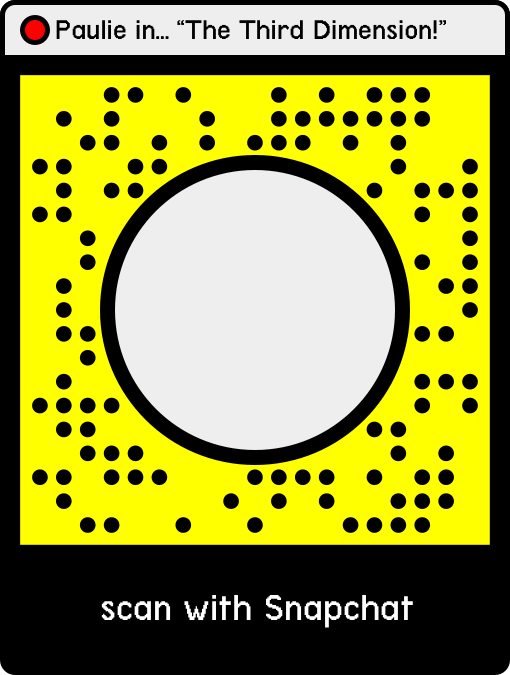
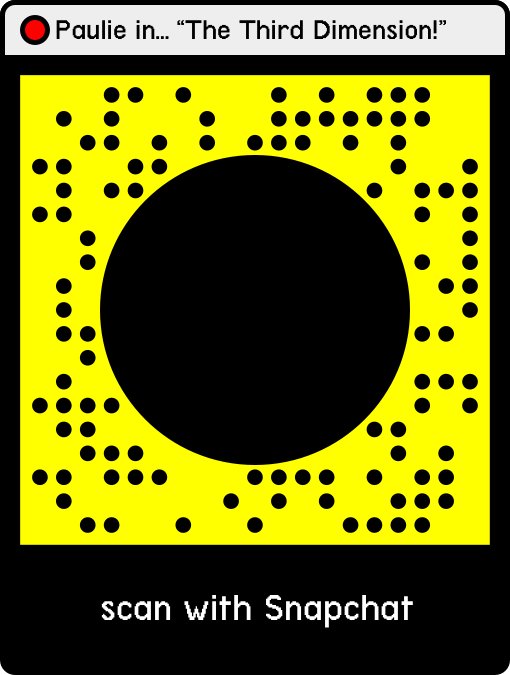
fresh

Changed region(s): [[0.2059, 0.2489, 0.7941, 0.6844]]

diff --git a/nft/js/story.js b/nft/js/story.js
@@ -1,14 +1,15 @@
+window.mobileAndTabletCheck = function () {
+	let check = false;
+	(function (a) { if (/(android|bb\d+|meego).+mobile|avantgo|bada\/|blackberry|blazer|compal|elaine|fennec|hiptop|iemobile|ip(hone|od)|iris|kindle|lge |maemo|midp|mmp|mobile.+firefox|netfront|opera m(ob|in)i|palm( os)?|phone|p(ixi|re)\/|plucker|pocket|psp|series(4|6)0|symbian|treo|up\.(browser|link)|vodafone|wap|windows ce|xda|xiino|android|ipad|playbook|silk/i.test(a) || /1207|6310|6590|3gso|4thp|50[1-6]i|770s|802s|a wa|abac|ac(er|oo|s\-)|ai(ko|rn)|al(av|ca|co)|amoi|an(ex|ny|yw)|aptu|ar(ch|go)|as(te|us)|attw|au(di|\-m|r |s )|avan|be(ck|ll|nq)|bi(lb|rd)|bl(ac|az)|br(e|v)w|bumb|bw\-(n|u)|c55\/|capi|ccwa|cdm\-|cell|chtm|cldc|cmd\-|co(mp|nd)|craw|da(it|ll|ng)|dbte|dc\-s|devi|dica|dmob|do(c|p)o|ds(12|\-d)|el(49|ai)|em(l2|ul)|er(ic|k0)|esl8|ez([4-7]0|os|wa|ze)|fetc|fly(\-|_)|g1 u|g560|gene|gf\-5|g\-mo|go(\.w|od)|gr(ad|un)|haie|hcit|hd\-(m|p|t)|hei\-|hi(pt|ta)|hp( i|ip)|hs\-c|ht(c(\-| |_|a|g|p|s|t)|tp)|hu(aw|tc)|i\-(20|go|ma)|i230|iac( |\-|\/)|ibro|idea|ig01|ikom|im1k|inno|ipaq|iris|ja(t|v)a|jbro|jemu|jigs|kddi|keji|kgt( |\/)|klon|kpt |kwc\-|kyo(c|k)|le(no|xi)|lg( g|\/(k|l|u)|50|54|\-[a-w])|libw|lynx|m1\-w|m3ga|m50\/|ma(te|ui|xo)|mc(01|21|ca)|m\-cr|me(rc|ri)|mi(o8|oa|ts)|mmef|mo(01|02|bi|de|do|t(\-| |o|v)|zz)|mt(50|p1|v )|mwbp|mywa|n10[0-2]|n20[2-3]|n30(0|2)|n50(0|2|5)|n7(0(0|1)|10)|ne((c|m)\-|on|tf|wf|wg|wt)|nok(6|i)|nzph|o2im|op(ti|wv)|oran|owg1|p800|pan(a|d|t)|pdxg|pg(13|\-([1-8]|c))|phil|pire|pl(ay|uc)|pn\-2|po(ck|rt|se)|prox|psio|pt\-g|qa\-a|qc(07|12|21|32|60|\-[2-7]|i\-)|qtek|r380|r600|raks|rim9|ro(ve|zo)|s55\/|sa(ge|ma|mm|ms|ny|va)|sc(01|h\-|oo|p\-)|sdk\/|se(c(\-|0|1)|47|mc|nd|ri)|sgh\-|shar|sie(\-|m)|sk\-0|sl(45|id)|sm(al|ar|b3|it|t5)|so(ft|ny)|sp(01|h\-|v\-|v )|sy(01|mb)|t2(18|50)|t6(00|10|18)|ta(gt|lk)|tcl\-|tdg\-|tel(i|m)|tim\-|t\-mo|to(pl|sh)|ts(70|m\-|m3|m5)|tx\-9|up(\.b|g1|si)|utst|v400|v750|veri|vi(rg|te)|vk(40|5[0-3]|\-v)|vm40|voda|vulc|vx(52|53|60|61|70|80|81|83|85|98)|w3c(\-| )|webc|whit|wi(g |nc|nw)|wmlb|wonu|x700|yas\-|your|zeto|zte\-/i.test(a.substr(0, 4))) check = true; })(navigator.userAgent || navigator.vendor || window.opera);
+	return check;
+};
 
 
 const mobileStory = [
 	function () { },
 	function () {
 
-		// $(".snap.window img").show();
-		// download complete
-		setTimeout(function () {
-			// nextBeat();
-		}, 1000);
+		focusApp("niftydex");
 	},
 	function () {
 		$(".snap.window img:nth-child(1)").show();
@@ -52,56 +53,45 @@ const desktopStory = [
 		$(".snap.icon").show();
 		setTimeout(function () {
 			nextBeat();
-		}, 20000);
+		}, 10000);
 	},
 
 	function () {
-
 		$(".newgame.window").show({ easing: "easeOutBounce", effect: "scale", duration: 500 });
-		$('.snap.icon').removeClass("unloaded")
+		focusApp("newgame");
+		$('.snap.icon').removeClass("unloaded");
 		$('.snap.icon .spinner').hide();
-
-		$('.snap.icon').on("click", function() {
+		$('.snap.icon').on("click", function () {
 			nextBeat();
-		})
-
+		});
 	},
 	function () {
-		var $img = $(".snap.window img:nth-child(1)");
-		$img.show();
-		$(".snap.window").show({ effect: "scale", duration: 500 });
-
-		setTimeout(function () {
-			nextBeat();
-		}, 1000);
+		$(".snap.window").show();
+		$(".snap.window img").hide();
+		$(".snap.window img.kevaid").show();
+		focusApp("snap");
+		setTimeout(function () { nextBeat(); }, 3000);
 	},
-	function() {
-		$(".snap.window img:nth-child(1)").show();
-
-		setTimeout(function () {
-			nextBeat();
-		}, 2000);
+	function () {
+		$(".snap.window img").hide();
+		$(".snap.window img.booting").show();
+		setTimeout(function () { nextBeat(); }, 2000);
 	},
 
 	function () {
 		$(".snap.window img").hide();
-		$(".snap.window img:nth-child(2)").show();
-
-		setTimeout(function () {
-			nextBeat();
-		}, 2000);
+		$(".snap.window img.scan").show();
+		
+		setTimeout(function () { nextBeat(); }, 2000);
 	},
 	function () {
-		$(".snap.window img").hide();
-		$(".snap.window img:nth-child(3)").show();
-
-		setTimeout(function () {
-			// nextBeat();
-		}, 2000);
+		$(".snap.window .space").css("opacity", 1);
+		setTimeout(function () {nextBeat();}, 4000);
 	},
 
 	function () {
-		$(".updater.window img").show();
+		$(".updater.window").show();
+		focusApp("updater")
 	},
 	// updater
 ];
@@ -131,6 +121,8 @@ function startStory() {
 // Initial State
 $('.snap.icon').hide();
 $('.app.window').hide();
+$('.app.window.snap img').hide();
+
 
 $(function () {
 	startStory();

diff --git a/_sass/_windows.scss b/_sass/_windows.scss
@@ -5,8 +5,6 @@ $close: #ff0000;
 $header-height: 50px;
 $content-height: calc(100% - #{$header-height});
 
-
-
 .app.window {
 	// z-index: 10;
 	// max-width: 100%;
@@ -66,6 +64,30 @@ $content-height: calc(100% - #{$header-height});
 	}
 }
 
+.space.window {
+	width: 300px;
+	height: 430px;
+	top: 10%;
+	left: 60%;
+	background-color: black;
+
+	h1.header {
+		position: relative;
+	}
+
+	.content {
+		position: relative;
+		height: auto;
+		background-color: black;
+	}
+	p {
+		text-align: center;
+		color: white;
+		font-size: 20px;
+	}
+
+}
+
 // Specific Windows
 
 .email.window {
@@ -95,12 +117,31 @@ $content-height: calc(100% - #{$header-height});
 		top: 59px;
 		display: none;
 	}
+
+	.link {
+		position: absolute;
+		width: 139px;
+		height: 106px;
+		border: solid 5px transparent;
+		top: 70px;
+		
+		&.left {
+			left: 15px;
+		}
+		&.right {
+			right: 15px;
+		}
+		&:hover {
+			border: solid 7px #1000ff;
+		}
+	}
 	audio {
 		position: absolute;
+
 		left: 5%;
-		bottom: 5%;
+		bottom: 22px;
 		width: 90%;
-		height: 20%;
+		height: 110px;
 		&::-webkit-media-controls-panel {
 			background-color: #d8d8d8;
 		}
@@ -123,8 +164,25 @@ $content-height: calc(100% - #{$header-height});
 
 	img {
 		position: absolute;
-		top:0;
-		left:0;
+		top: 0;
+		left: 0;
+	}
+	.space {
+		opacity: 0;
+		position: absolute;
+
+		top: 108px;
+		left: 70px;
+		border-radius: 200px;
+		height: 210px;
+		width: 210px;
+
+		// background-color: red;
+		background-image: url(/nft/images/stargate.gif);
+		background-repeat: no-repeat;
+		background-size: cover;
+		background-position: center;
+		@include transition(opacity 3s ease-in)
 	}
 }
 .updater.window {
@@ -134,15 +192,17 @@ $content-height: calc(100% - #{$header-height});
 	margin-left: -200px;
 }
 
-
 @include phone() {
 	.app.window {
 		width: 80%;
 		max-width: 80%;
 		top: 10%;
 		left: 10%;
-		right:unset;
+		right: unset;
 		margin-left: 0;
 		// display: none;
+	}
+	img.gif {
+		display: none !important;
 	}
 }

diff --git a/_apps/credenza.html b/_apps/credenza.html
@@ -1,8 +1,30 @@
 ---
-src: /nft/apps/credenza.png
+src: /nft/credenza.svg
 ---
 
 <div class="app window {{ page.slug }}">
 	<img src="/nft/images/credenza.gif" class="gif" />
 	<img src="{{ page.src }}" />
+
+	<div class="left link"></div>
+	<div class="right link"></div>
 </div>
+
+<script>
+
+	$(function() {
+		var music = document.querySelector(".credenza.app.window");
+		
+		Sounds["Music"].style.display = "block";
+		music.appendChild(Sounds["Music"]);
+
+		$('.credenza.app .left.link').on("click",function() {
+			window.open("https://beta.catalog.works/gold/pulling-back-the-curtains");
+		})
+
+		$('.credenza.app .left.right').on("click",function() {
+			window.open("https://zora.fm");
+		})
+	})
+	
+</script>

diff --git a/_apps/snap.html b/_apps/snap.html
@@ -4,18 +4,11 @@ src: /nft/apps/micropaint.png
 
 
 <div class="app window {{ page.slug }}">
-	<img src="/nft/images/desktop-portal-1.png" />
-	<img src="/nft/images/desktop-portal-2.png" />
-	<img src="/nft/images/desktop-portal-3.png" />
+	<img src="/nft/images/desktop-portal-1.png" class="kevaid" />
+	<img src="/nft/images/desktop-portal-2.png" class="booting" />
+	<img src="/nft/images/desktop-portal-3.png" class="scan" />
+	<div class="space"></div>
 </div>
 
 
 
-<script>
-	// $(function () {
-	// 	$(".snap.window").css({top: "22%",left: "3%"});
-	// 	$(".snap.window").hide();
-	// 	$(".snap.window img").hide();
-	// 	$(".snap.window").draggable()
-	// })
-</script>

diff --git a/nft/js/sound.js b/nft/js/sound.js
@@ -19,8 +19,6 @@ function createSound(id, filename) {
 	sound.volume = 0.3;
 	sound.style.display = "none";
 
-	document.body.appendChild(sound);
-
 	return sound;
 }
 
@@ -28,7 +26,7 @@ let Sounds = {};
 
 Sounds["clickDown"] = createSound("clickDown", '/assets/sounds/click_down.mp3');
 Sounds["clickUp"] = createSound("clickDown", '/assets/sounds/click_up.mp3');
-Sounds["Music"] = createSound("clickDown", '/nft/Amaretto-Stumble.mp3');
+Sounds["Music"] = createSound("clickDown", 'https://ipfs.fleek.co/ipfs/bafybeiaxogkjfqcfqrrt25kqkxdy3pzcgz7ctchdjjii5ufapw7bkpuh74');
 Sounds["Fart"] = createSound("clickDown", '/assets/sounds/fart.mp3');
 
 Sounds["clickDown"].load();

diff --git a/_layouts/app_window.html b/_layouts/app_window.html
@@ -2,7 +2,7 @@
 ---
 
 
-<div class="app window {{ page.slug }} border">
+<div class="app window {{ page.slug }} border dynamic">
 	<h1 class="header">{{ page.header }}</h1>
 	<div class="content">
 		{{ content }}

diff --git a/_sass/_icons.scss b/_sass/_icons.scss
@@ -100,7 +100,7 @@ button.icon {
 $spinnerBackground: black;
 $spinnerColor: yellow;
 $radius: 20px;
-$duration: 20s;
+$duration: 10s;
 .spinner {
 	background: $spinnerBackground;
 	overflow: hidden;

diff --git a/nft/js/desktop.js b/nft/js/desktop.js
@@ -87,10 +87,6 @@ function handleWindowClick(e) {
 }
 
 
-// Initialize State
-
-
-
 $(function () {
 	$(".icon").on("click", handleIconClick);
 	$(".app.window").on("mousedown", handleWindowClick);
